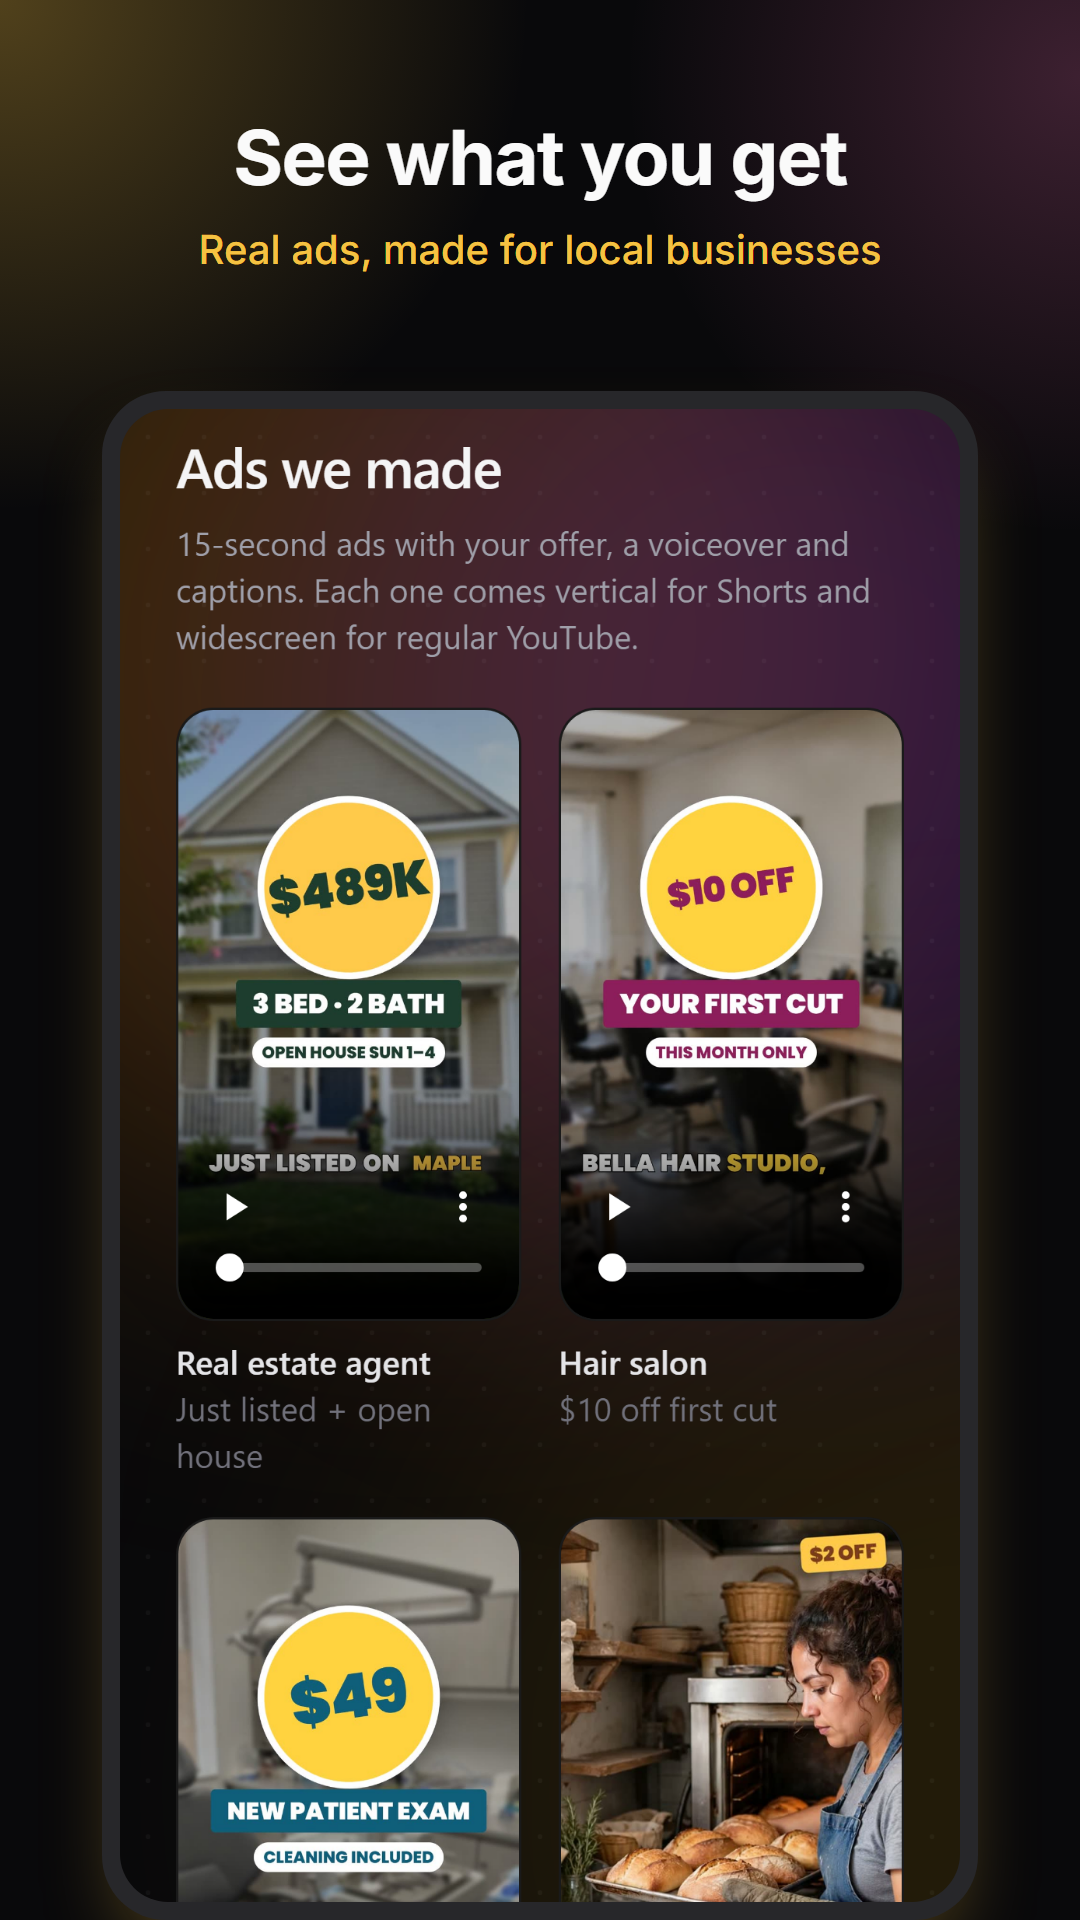
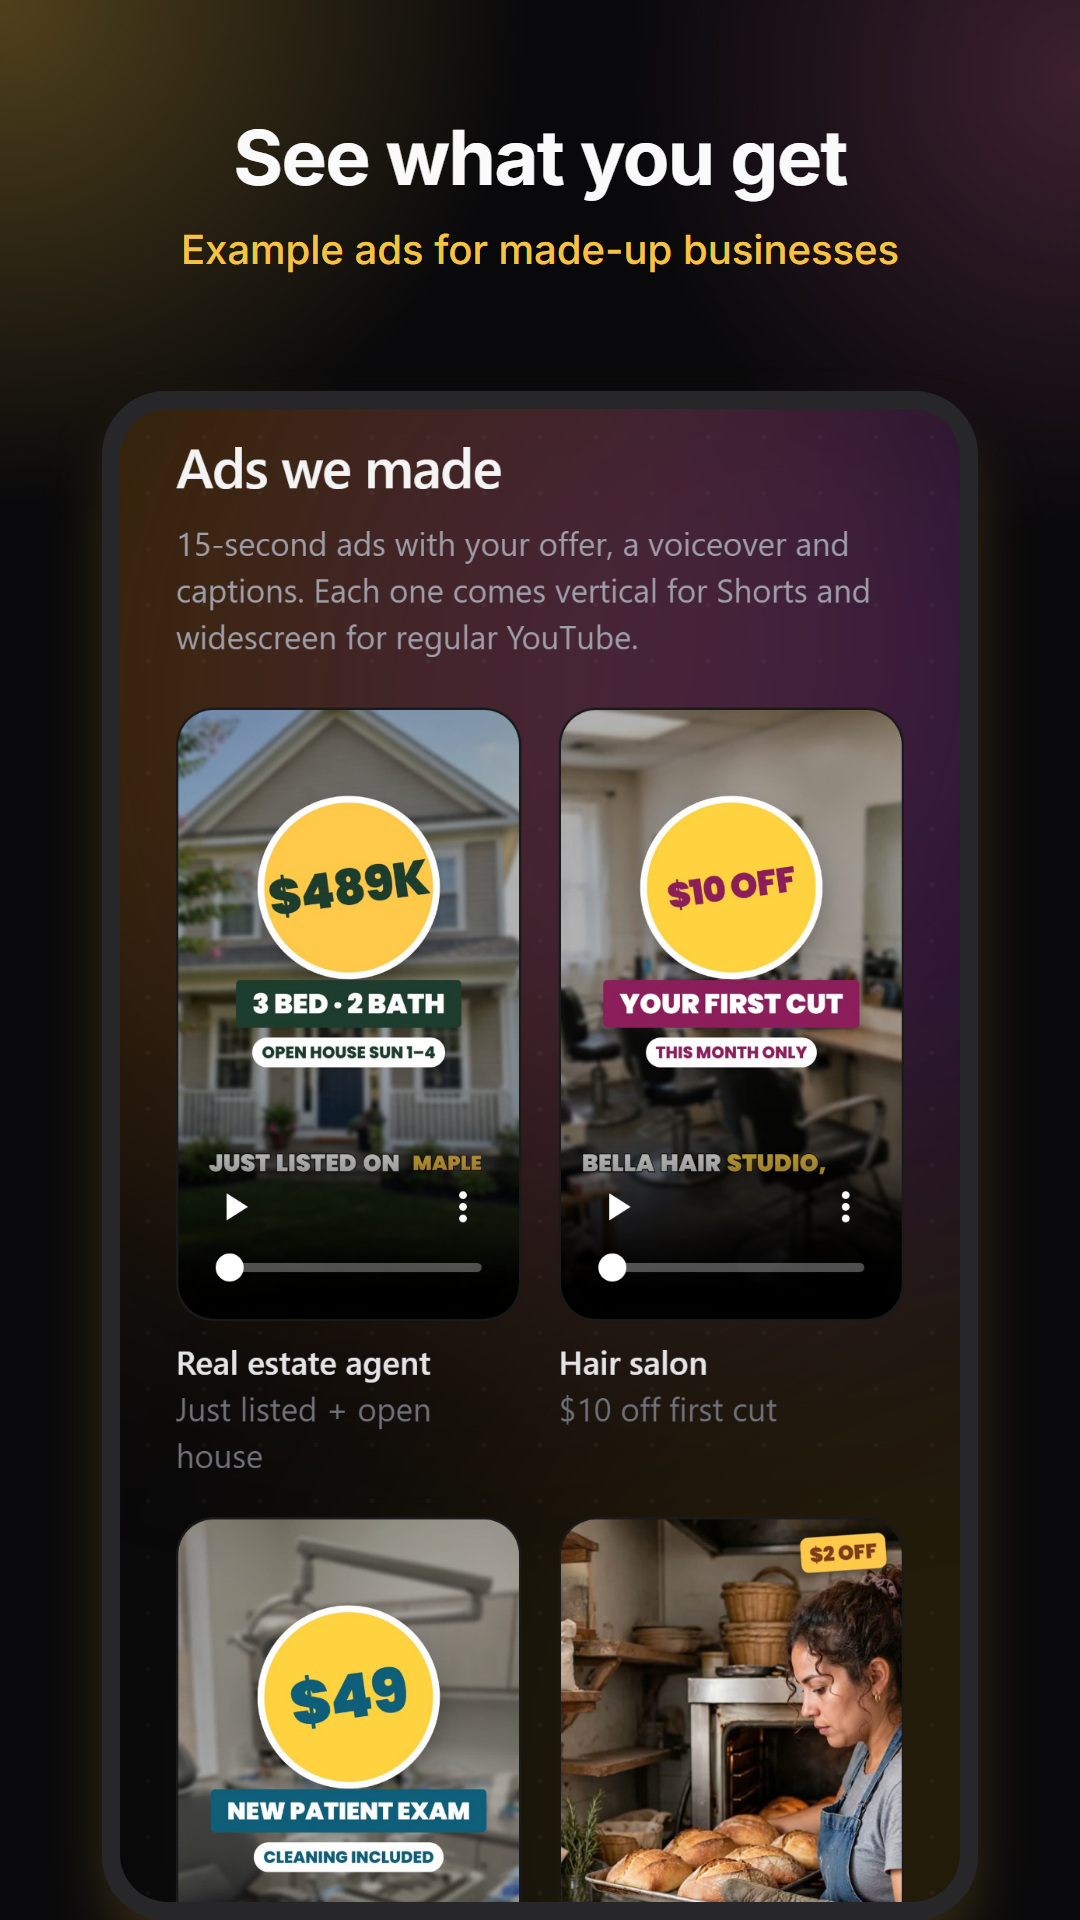
Play listing: current screenshots and price lines

Changed region(s): [[0.1528, 0.125, 0.825, 0.1562]]

diff --git a/infra/play-store/listing.md b/infra/play-store/listing.md
@@ -22,6 +22,7 @@ HOW IT WORKS
 SIMPLE PRICING
 • From $55 a month to keep your ad running: $20 for AdVault plus your ad budget (from $35), which goes to Google.
 • $10 for each new ad we make.
+• Optional: a website for $10, and extra offer changes for $2 each (one a month is included with the plan).
 • Or run an ad just once, with no monthly plan.
 • No contract. Cancel any time.
 
